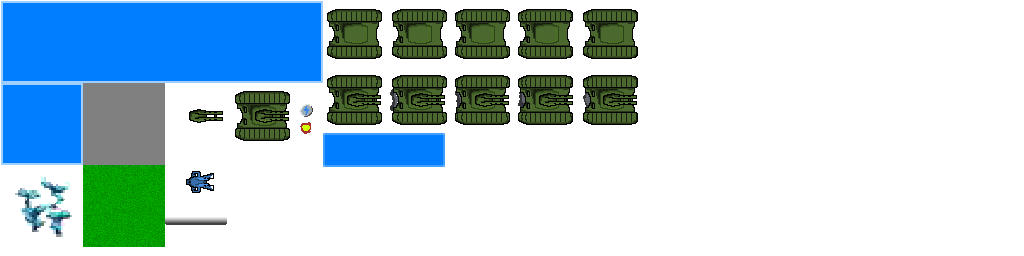
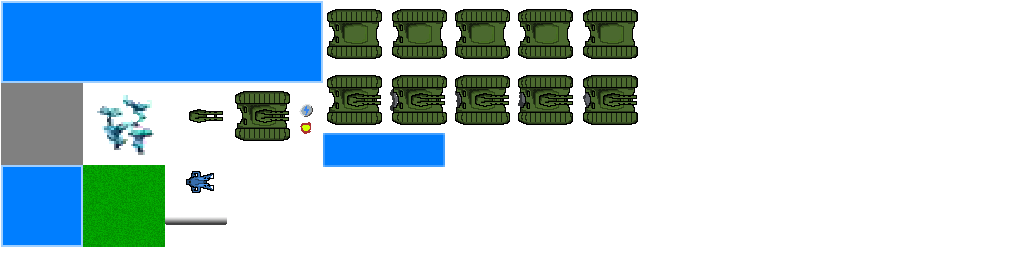
HT07

Changed region(s): [[0.0, 0.3125, 0.1875, 0.9688]]

diff --git a/core/src/com/dune/game/core/BattleMap.java b/core/src/com/dune/game/core/BattleMap.java
@@ -4,15 +4,17 @@ import com.badlogic.gdx.graphics.g2d.SpriteBatch;
 import com.badlogic.gdx.graphics.g2d.TextureRegion;
 import com.badlogic.gdx.math.MathUtils;
 import com.badlogic.gdx.math.Vector2;
-import com.dune.game.core.units.BattleTank;
-import com.dune.game.core.units.Harvester;
 
 public class BattleMap {
+
     private class Cell {
-        private int cellX, cellY;
-        private int resource;
+
+        protected int cellX, cellY;
+        protected int resource;
         private float resourceRegenerationRate;
         private float resourceRegenerationTime;
+
+        protected Cell() {}
 
         public Cell(int cellX, int cellY) {
             this.cellX = cellX;
@@ -29,7 +31,7 @@ public class BattleMap {
             }
         }
 
-        private void update(float dt) {
+        protected void update(float dt) {
             if (resourceRegenerationRate > 0.01f) {
                 resourceRegenerationTime += dt;
                 if (resourceRegenerationTime > resourceRegenerationRate) {
@@ -42,7 +44,7 @@ public class BattleMap {
             }
         }
 
-        private void render(SpriteBatch batch) {
+        protected void render(SpriteBatch batch) {
             if (resource > 0) {
                 float scale = 0.5f + resource * 0.2f;
                 batch.draw(resourceTexture, cellX * 80, cellY * 80, 40, 40, 80, 80, scale, scale, 0.0f);
@@ -54,6 +56,19 @@ public class BattleMap {
         }
     }
 
+    private class Storage extends Cell {
+        public Storage(int cellX, int cellY) {
+            this.cellX = cellX;
+            this.cellY = cellY;
+            this.resource = -1;
+        }
+
+        @Override
+        protected void render(SpriteBatch batch) {
+            batch.draw(storageTexture, cellX * 80, cellY * 80, 40, 40, 80, 80, 1, 1, 0);
+        }
+    }
+
     public static final int COLUMNS_COUNT = 20;
     public static final int ROWS_COUNT = 12;
     public static final int CELL_SIZE = 80;
@@ -62,16 +77,21 @@ public class BattleMap {
 
     private TextureRegion grassTexture;
     private TextureRegion resourceTexture;
+    private TextureRegion storageTexture;
     private Cell[][] cells;
 
     public BattleMap() {
         this.grassTexture = Assets.getInstance().getAtlas().findRegion("grass");
         this.resourceTexture = Assets.getInstance().getAtlas().findRegion("resource");
+        this.storageTexture = Assets.getInstance().getAtlas().findRegion("storage");
         this.cells = new Cell[COLUMNS_COUNT][ROWS_COUNT];
         for (int i = 0; i < COLUMNS_COUNT; i++) {
             for (int j = 0; j < ROWS_COUNT; j++) {
                 cells[i][j] = new Cell(i, j);
             }
+        }
+        for (int col = 0; col < 2; ++col) {
+            cells[col][0] = new Storage(col, 0);
         }
     }
 
@@ -85,15 +105,21 @@ public class BattleMap {
         int value = 0;
         int cx = (int) (point.x / CELL_SIZE);
         int cy = (int) (point.y / CELL_SIZE);
-        if (cells[cx][cy].resource >= power) {
+        Cell cell = cells[cx][cy];
+        if (cell instanceof Storage) {
+            value = -power;
+        }
+        else if (cell.resource >= power) {
             value = power;
-            cells[cx][cy].resource -= power;
+            cell.resource -= power;
         } else {
-            value = cells[cx][cy].resource;
-            cells[cx][cy].resource = 0;
+            value = cell.resource;
+            cell.resource = 0;
         }
         return value;
     }
+
+
 
     public void render(SpriteBatch batch) {
         for (int i = 0; i < COLUMNS_COUNT; i++) {

diff --git a/core/src/com/dune/game/screens/MenuScreen.java b/core/src/com/dune/game/screens/MenuScreen.java
@@ -4,20 +4,58 @@ import com.badlogic.gdx.Gdx;
 import com.badlogic.gdx.graphics.GL20;
 import com.badlogic.gdx.graphics.g2d.BitmapFont;
 import com.badlogic.gdx.graphics.g2d.SpriteBatch;
+import com.badlogic.gdx.scenes.scene2d.Group;
 import com.badlogic.gdx.scenes.scene2d.InputEvent;
 import com.badlogic.gdx.scenes.scene2d.Stage;
 import com.badlogic.gdx.scenes.scene2d.ui.Skin;
 import com.badlogic.gdx.scenes.scene2d.ui.TextButton;
 import com.badlogic.gdx.scenes.scene2d.utils.ClickListener;
-import com.badlogic.gdx.utils.Align;
+import com.dune.game.core.Assets;
 
 public class MenuScreen extends AbstractScreen {
+
+    private final Stage stage;
+
     public MenuScreen(SpriteBatch batch) {
         super(batch);
+        stage = new Stage(ScreenManager.getInstance().getViewport(), batch);
     }
 
     @Override
     public void show() {
+        Gdx.input.setInputProcessor(stage);
+
+        Skin skin = new Skin();
+        skin.addRegions(Assets.getInstance().getAtlas());
+        BitmapFont font14 = Assets.getInstance().getAssetManager().get("fonts/font14.ttf");
+        TextButton.TextButtonStyle textButtonStyle = new TextButton.TextButtonStyle(
+                skin.getDrawable("smButton"), null, null, font14);
+
+        final TextButton exitBtn = new TextButton("Exit", textButtonStyle);
+        exitBtn.addListener(new ClickListener() {
+            @Override
+            public void clicked(InputEvent event, float x, float y) {
+                Gdx.app.exit();
+            }
+        });
+
+        final TextButton newGameBtn = new TextButton("New Game", textButtonStyle);
+        newGameBtn.addListener(new ClickListener() {
+            @Override
+            public void clicked(InputEvent event, float x, float y) {
+                ScreenManager.getInstance().changeScreen(ScreenManager.ScreenType.GAME);
+            }
+        });
+
+        Group menuGroup = new Group();
+        exitBtn.setPosition(0, 0);
+        newGameBtn.setPosition(130, 0);
+        menuGroup.addActor(exitBtn);
+        menuGroup.addActor(newGameBtn);
+        menuGroup.setPosition(900, 680);
+        stage.addActor(menuGroup);
+
+        skin.dispose();
     }
 
     @Override
@@ -25,15 +63,18 @@ public class MenuScreen extends AbstractScreen {
         update(delta);
         Gdx.gl.glClearColor(0, 0, 0.4f, 1);
         Gdx.gl.glClear(GL20.GL_COLOR_BUFFER_BIT);
+
+        stage.draw();
     }
 
     public void update(float dt) {
-        if (Gdx.input.justTouched()) {
-            ScreenManager.getInstance().changeScreen(ScreenManager.ScreenType.GAME);
-        }
+//        if (Gdx.input.justTouched()) {
+//            ScreenManager.getInstance().changeScreen(ScreenManager.ScreenType.GAME);
+//        }
     }
 
     @Override
     public void dispose() {
+        stage.dispose();
     }
 }

diff --git a/core/src/com/dune/game/core/units/Harvester.java b/core/src/com/dune/game/core/units/Harvester.java
@@ -2,10 +2,7 @@ package com.dune.game.core.units;
 
 import com.badlogic.gdx.graphics.g2d.SpriteBatch;
 import com.badlogic.gdx.math.Vector2;
-import com.dune.game.core.Assets;
-import com.dune.game.core.GameController;
-import com.dune.game.core.Targetable;
-import com.dune.game.core.Weapon;
+import com.dune.game.core.*;
 
 public class Harvester extends AbstractUnit {
     public Harvester(GameController gc) {
@@ -29,16 +26,28 @@ public class Harvester extends AbstractUnit {
     }
 
     public void updateWeapon(float dt) {
-        if (gc.getMap().getResourceCount(position) > 0) {
-            int result = weapon.use(dt);
-            if (result > -1) {
-                container += gc.getMap().harvestResource(position, result);
-                if (container > containerCapacity) {
-                    container = containerCapacity;
-                }
-            }
-        } else {
+        int cnt = gc.getMap().getResourceCount(position);
+        if (cnt == 0 || (cnt == -1 && container == 0)) {
             weapon.reset();
+            return;
+        }
+
+        int result = weapon.use(dt);
+        if (result == -1) {
+            return;
+        }
+
+        int amount = gc.getMap().harvestResource(position, result);
+        container += amount;
+
+        if (container > containerCapacity) {
+            container = containerCapacity;
+        } else if (container < 0) {
+            amount -= container;
+            container = 0;
+        }
+        if (amount < 0) {
+            gc.onResourcesUnloaded(this, -amount);
         }
     }
 

diff --git a/core/src/com/dune/game/core/GameController.java b/core/src/com/dune/game/core/GameController.java
@@ -13,6 +13,7 @@ import com.badlogic.gdx.scenes.scene2d.ui.TextButton;
 import com.badlogic.gdx.scenes.scene2d.utils.ClickListener;
 import com.dune.game.core.gui.GuiPlayerInfo;
 import com.dune.game.core.units.AbstractUnit;
+import com.dune.game.core.units.Harvester;
 import com.dune.game.screens.ScreenManager;
 
 import java.util.ArrayList;
@@ -240,5 +241,10 @@ public class GameController {
         stage.addActor(guiPlayerInfo);
         stage.addActor(menuGroup);
         skin.dispose();
+    }
+
+    public void onResourcesUnloaded(Harvester harvester, int amount) {
+
+        playerLogic.setMoney(playerLogic.getMoney() + amount);
     }
 }

diff --git a/core/src/com/dune/game/core/PlayerLogic.java b/core/src/com/dune/game/core/PlayerLogic.java
@@ -17,6 +17,10 @@ public class PlayerLogic {
         return money;
     }
 
+    public void setMoney(int sum) {
+        money = sum;
+    }
+
     public int getUnitsCount() {
         return unitsCount;
     }
@@ -27,7 +31,7 @@ public class PlayerLogic {
 
     public PlayerLogic(GameController gc) {
         this.gc = gc;
-        this.money = 1000;
+        this.money = 0;
         this.unitsCount = 10;
         this.unitsMaxCount = 100;
     }

diff --git a/core/src/com/dune/game/DuneGame.java b/core/src/com/dune/game/DuneGame.java
@@ -4,7 +4,6 @@ import com.badlogic.gdx.Game;
 import com.badlogic.gdx.Gdx;
 import com.badlogic.gdx.graphics.GL20;
 import com.badlogic.gdx.graphics.g2d.SpriteBatch;
-import com.dune.game.screens.GameScreen;
 import com.dune.game.screens.ScreenManager;
 
 public class DuneGame extends Game {
